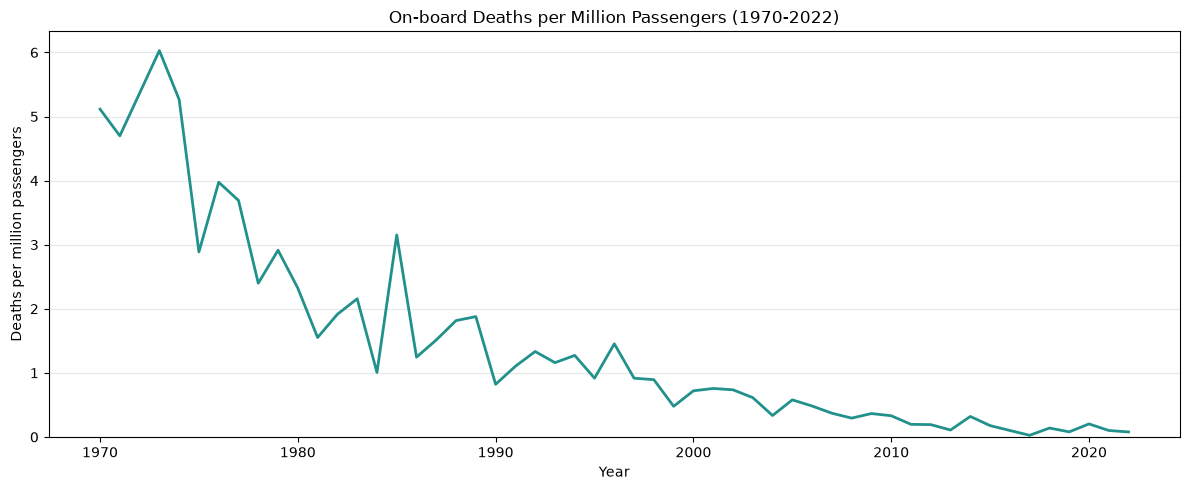
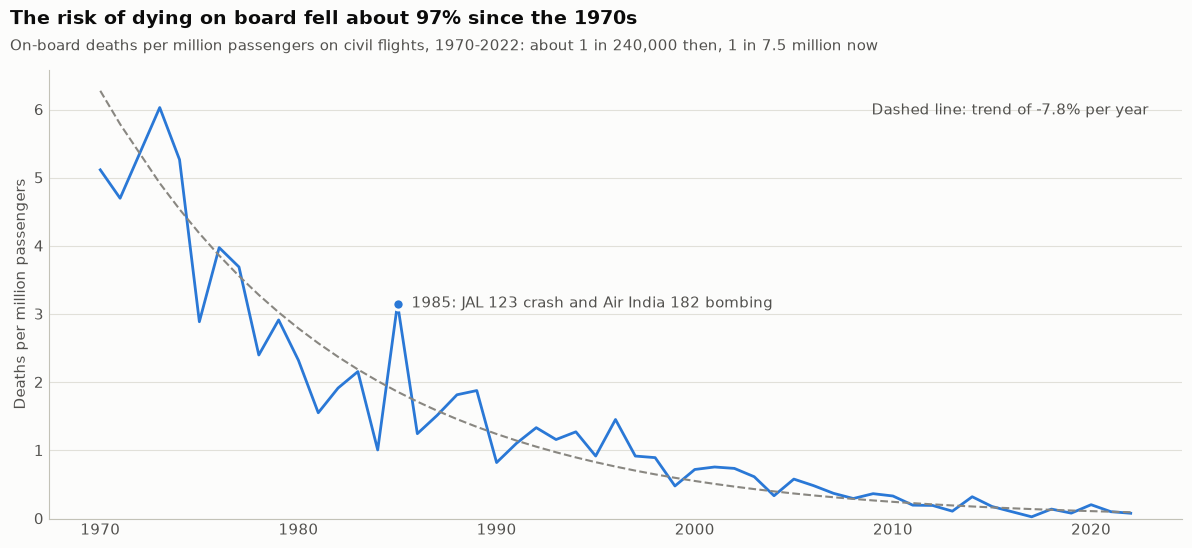
Trim README to four charts and describe statistical testing
Keep the four strongest charts in the README, link to the notebook for
the rest, and remove the six images nothing references anymore.

diff --git a/README.md b/README.md
@@ -9,10 +9,10 @@ Exploratory data analysis of **23,917 civil aviation accidents and incidents fro
 
 ## Key Findings
 
-- **Flying has become far safer.** Adjusted for flight volume, the civil accident rate fell about 71%, from 17.5 accidents per million departures in the 1970s to 5.1 in 2013–2022, while worldwide departures grew about 3.5x.
+- **Flying has become far safer.** Adjusted for flight volume, the civil accident rate fell about 71%, from 17.5 accidents per million departures in the 1970s to 5.1 in 2013–2022, a steady decline of about 2.9% per year (95% CI 2.7–3.1%), while worldwide departures grew about 3.5x.
 - **The risk of dying on board fell about 97%**, from roughly 1 death per 240,000 passengers in the 1970s to 1 per 7.5 million in 2013–2022, as passenger numbers grew more than 7x.
-- **Accident rates vary widely by country.** Adjusted for flight volume (2000–2019), Russia, Indonesia, Canada, and Mexico had 2–4x the rate of the US and UK, while China and Japan were among the lowest. Smaller aviation markets averaged 9.3 accidents per million departures, more than twice the 20 busiest countries (4.2).
-- **Modern jets are the most survivable.** About 21% of Boeing 727 and 737 accidents killed anyone, versus 62% for the DC-3. Military operators have the highest share of fatal accidents (9 of the top 10 operators, 66–82% fatal).
+- **Accident rates vary widely by country.** Adjusted for flight volume (2000–2019), Russia, Indonesia, Canada, and Mexico had 2–4x the rate of the US and UK, significantly above the worldwide rate based on 95% confidence intervals, while China and Japan were among the lowest. Smaller aviation markets averaged 9.3 accidents per million departures, more than twice the 20 busiest countries (4.2).
+- **Modern jets are the most survivable.** About 21% of Boeing 727 and 737 accidents killed anyone, versus 62% for the DC-3, a gap far larger than the uncertainty in either figure. Military operators have the highest share of fatal accidents (9 of the top 10 operators, 66–82% fatal).
 
 More findings (seasonality, World War II, fatalities, data quality) are in the [notebook](analysis.ipynb), each with a short takeaway.
 
@@ -24,19 +24,9 @@ More findings (seasonality, World War II, fatalities, data quality) are in the [
 
 ![Accident rates by country](images/country_accident_rates.png)
 
-![Accidents per year](images/accidents_by_year.png)
-
-![Deaths per year](images/deaths_by_year.png)
-
 ![Severity by aircraft family](images/severity_by_aircraft.png)
 
-| Accidents by month | Accidents by season (hemisphere-adjusted) |
-|---|---|
-| ![Accidents per month](images/accidents_by_month.png) | ![Accidents by season](images/accidents_by_season.png) |
-
-| Top 15 countries | Accident categories |
-|---|---|
-| ![Top 15 countries by number of accidents](images/top_countries.png) | ![Distribution of accident categories](images/accident_categories.png) |
+Charts for the other findings (by year, month, season, country, and category) are in the [notebook](analysis.ipynb).
 
 ## Approach
 
@@ -48,11 +38,12 @@ More findings (seasonality, World War II, fatalities, data quality) are in the [
    - Mapped each country to a hemisphere (Northern, Southern, or equatorial) so that "winter" means December in Canada but July in Australia.
    - Derived meteorological seasons from month + hemisphere, excluding countries that straddle the equator and open-ocean locations (2,450 rows) instead of guessing. The data has no coordinates, and places near the equator mostly have wet and dry seasons rather than winter and summer, so a country lookup is as precise as the season comparison needs.
 5. **Normalization by flight volume:** joined yearly accident counts with the World Bank's worldwide departures series (1970–2022). To keep the two sources comparable, only ASN accidents were counted, with military operators (matched by name, e.g. air forces, navies, the USAAF) and private flights excluded. Divided on-board deaths by the World Bank's passengers-carried series to get deaths per million passengers, counting bombings, shootdowns, and hijackings alongside accidents, since they kill passengers too. Repeated the accident rate for the 20 busiest countries using country-level departures, with a name mapping between ASN and World Bank country names and a note that ASN records accident location while the World Bank records airline registration.
-6. **Aggregation and visualization:** grouped by year, month, season, country, ASN category, operator, and aircraft family with pandas, and plotted with Matplotlib and Seaborn.
+6. **Statistical testing:** chi-square tests for monthly and seasonal patterns (adjusted for month and season length), log-linear trend fits with confidence intervals for the accident and death rates, exact Poisson confidence intervals for country rates, and Wilson confidence intervals for the share of fatal accidents. One result changed a claim: month-to-month differences turned out to be statistically significant, though small, so the notebook says so instead of calling them noise.
+7. **Aggregation and visualization:** grouped by year, month, season, country, ASN category, operator, and aircraft family with pandas, and plotted with Matplotlib and Seaborn using one consistent style: a headline that states each chart's takeaway, a single accent color, quiet axes, and direct labels on key events.
 
 ## Tech Stack
 
-Python · pandas · NumPy · Matplotlib · Seaborn · kagglehub · Google Colab
+Python · pandas · NumPy · SciPy · Matplotlib · Seaborn · kagglehub · Google Colab
 
 ## Run It
 
